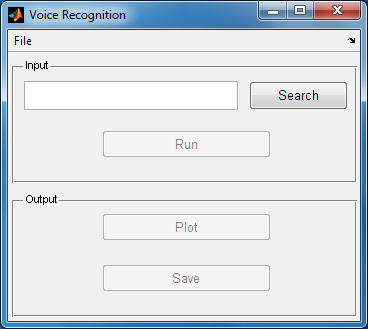
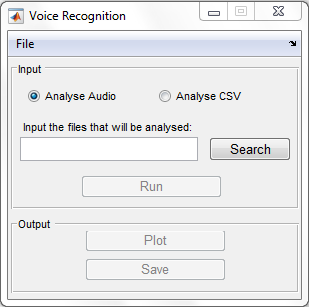
Updated documentation

diff --git a/docs/doc.html b/docs/doc.html
@@ -195,7 +195,7 @@
 <a name="voice"></a>
 <h2>Análise de Voz</h2>
 
-<p>Esta ferramenta extrai os momentos iniciais de cada palavra em um sinal de voz em um arquivo WAV aplicando um <em>threshold</em> no espectro de potência da gravação em questão. Permite remoção de falsos-positivos em um submódulo após a análise computacional do arquivo de áudio.</p>
+<p>Esta ferramenta extrai os momentos iniciais de cada palavra em um sinal de voz em um arquivo WAV aplicando um <em>threshold</em> no espectro de potência da gravação em questão. Permite remoção de falsos-positivos em um submódulo após a análise computacional do arquivo de áudio. Caso o arquivo de áudio já tenha sido analisado previamente, também é possível informar ao programa a versão em tabela CSV que contém as informações de análise para, então, verificar a marcação dos momentos.</p>
 
 <p><img src="assets/voice.png" alt="voice analysis" title="'Voice Analysis' Module" /></p>
 
@@ -205,7 +205,9 @@
 
 <p><img src="assets/subvoice.png" alt="moments verification" title="'Moments Verification' Module" /></p>
 
-<p>O nome do arquivo que está sendo analisado é mostrado no topo de uma lista contendo todos os valores obtidos após a análise computacional do arquivo. Estes valores <b>devem</b> ser selecionados (para seleção múltipla, utilize <em>Ctrl/Shift</em>) para serem salvos ao final da verificação. Caso o usuário deseje checar o que foi selecionado, é possível fazê-lo com o botão <code>View Selection</code>. Este botão atualiza o gráfico contendo as marcações dos tempos, colorindo de verde aquilo que foi selecionado pelo usuário.</p>
+<p>O nome do arquivo que está sendo analisado é mostrado no topo da janela do módulo. Os valores encontrados com a análise computacional do arquivo de áudio são marcados em vermelho sobre o formato de onda (em azul) do arquivo de som.</p>
+
+<p>Com auxílio das ferramentas no topo da janela é possível aumentar e diminuir o zoom e arrastar o formato de onda de um lado para o outro. Além disso, é possível habilitar e desabilitar a seleção de pontos para a adição e remoção. Para selecionar múltiplo pontos, ative a ferramenta <code>Data Cursor</code> e segure a tecla <em>Alt</em> enquanto clica nos lugares desejados. Para adicionar os lugares marcados à lista de pontos relacionados ao arquivo, basta clicar no ícone <code>+</code>. Para eliminar os lugares selecionados, clique no ícone <code>-</code>.</p>
 
 <p>Uma vez que o usuário esteja satisfeito com o resultado, clica-se no botão <code>Next</code> (ou <code>Save</code>, se não houver mais arquivos para analisar) para atualizar a lista de valores de momentos do arquivo e continuar a análise com o próximo arquivo.</p>
 

diff --git a/P2/voicemodule2.m b/P2/voicemodule2.m
@@ -91,7 +91,6 @@ if get(hObject, 'Value');
 	set(handles.radioTable, 'Value', 0);
 	set(handles.buttonRun, 'Enable', 'on');
 	set([handles.buttonPlot handles.buttonSave], 'Enable', 'off');
-%	set(handles.buttonSave, 'Enable', 'off');
 	handles.ext = '*.wav';
 end
 guidata(hObject, handles);
@@ -105,7 +104,6 @@ if get(hObject, 'Value')
 	set(handles.radioAudio, 'Value', 0);
 	set(handles.buttonRun, 'Enable', 'off');
 	set([handles.buttonPlot handles.buttonSave], 'Enable', 'on');
-%	set(handles.buttonSave, 'Enable', 'on');
 	handles.ext = '*.csv';
 end
 guidata(hObject, handles);
@@ -142,7 +140,7 @@ if ~isequal(filename, 0)
 		end
 	end
 
-	outlet = join_strings(handles.cases, ';');
+	outlet = join_strings(temp, ';');
 	set(handles.editSearch, 'String', outlet);
 
 	% If an audio will be analysed, Run must be enabled
@@ -170,7 +168,7 @@ stuff = java.util.HashMap;
 
 % Analyse each audio provided by the user
 for n = 1:length(filename)
-	file{n} = strcat(pathname, filename{n})
+	file{n} = strcat(pathname, filename{n});
 	stuff.put(file{n}, main(file{n}));
 end
 
@@ -206,7 +204,7 @@ if get(handles.radioTable, 'Value')
 			timeArray(k - 1) = str2num(strrep(temp, ',', '.'));
 		end
 		fclose(fileID);
-		file{n} = content{1}{k}(1:semicollon(1) - 1)
+		file{n} = content{1}{k}(1:semicollon(1) - 1);
 		
 		% Fill out stuff hash map with new value
 		stuff.put(file{n}, timeArray);
@@ -218,7 +216,8 @@ if get(handles.radioTable, 'Value')
 	guidata(hObject, handles);
 
 end
-handles.stuff = plot_stuff(handles.files, handles.stuff, get(handles.radioAudio, 'Value'));
+handles.stuff = plot_stuff(handles.files, handles.stuff,...
+						   get(handles.radioAudio, 'Value'));
 guidata(hObject, handles);
 
 

diff --git a/P2/voicemodule/refresh_signal.m b/P2/voicemodule/refresh_signal.m
@@ -1,7 +1,7 @@
 function [record, fs] = refresh_signal(hObject, handles, files, stuff, n, analysis)
 
 % Recover file original name
-filename = strrep(files{n}, '.csv', '.wav')
+filename = strrep(files{n}, '.csv', '.wav');
 filename = strrep(filename, strcat(filesep, 'CSVFiles', filesep), filesep);
 [fpath, fname, fext] = fileparts(files{n});
 set(handles.textFilename, 'String', strcat(fname, fext));
@@ -11,7 +11,7 @@ set(handles.textFilename, 'String', strcat(fname, fext));
 
 % If the file being analysed is indeed an audio
 if analysis
-	moments = get(stuff, files{n})
+	moments = get(stuff, files{n});
 	timemoments = turn_to_time(moments, length(record)/fs);
 
 % Else, if file hasa been analysed already
